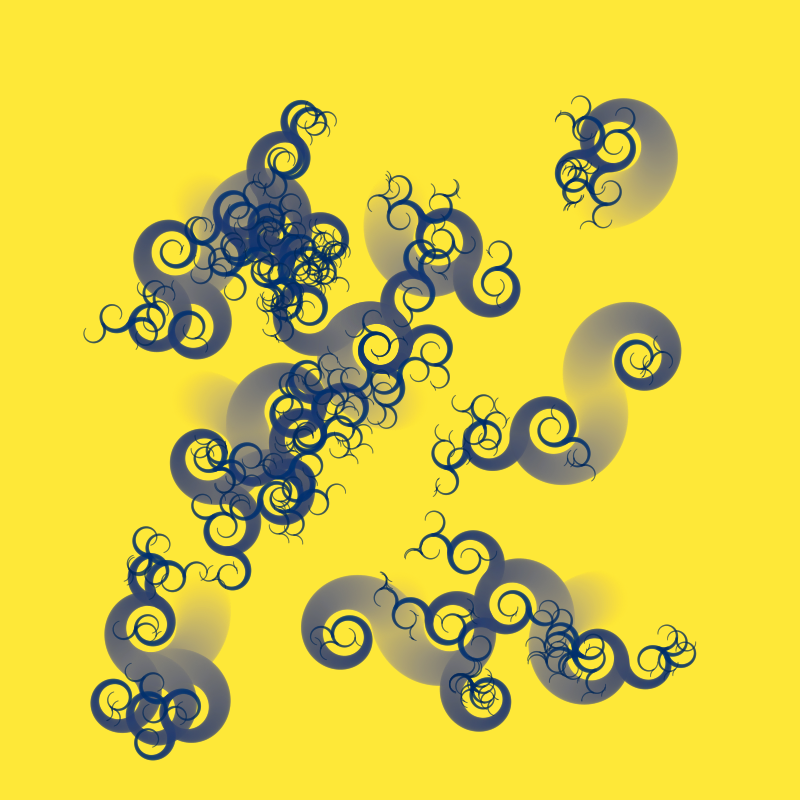
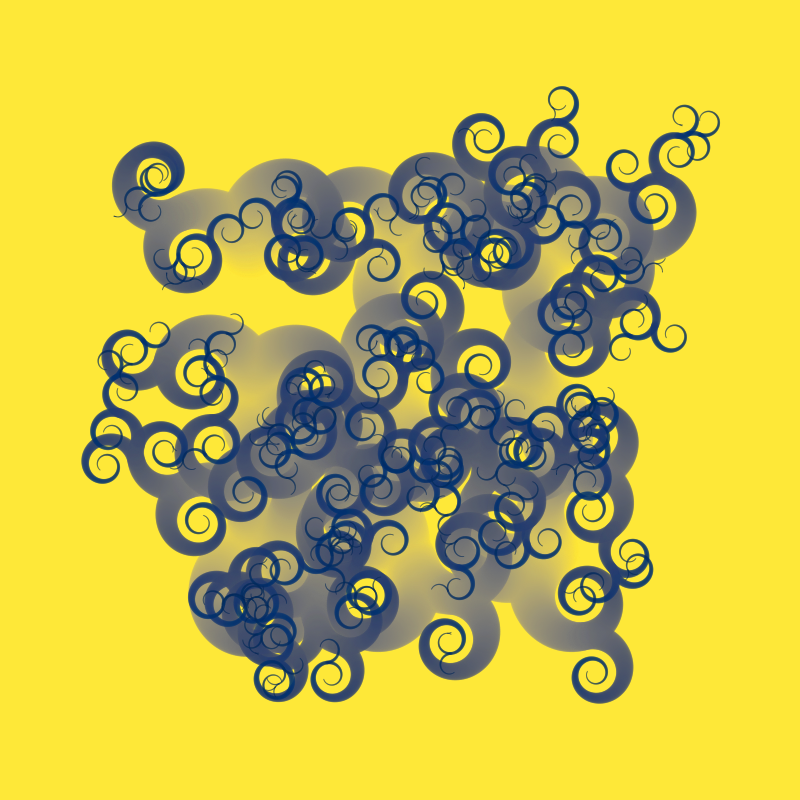
5

diff --git a/2025/sketch_2025_12_05/sketch_2025_12_05.py b/2025/sketch_2025_12_05/sketch_2025_12_05.py
@@ -34,8 +34,8 @@ def key_pressed():
     elif py5.key == 'p':
         py5.save_frame('###.png')
     elif py5.key == 'r':
-        for x, y in product(range(200, py5.width - 199, 200), repeat=2):
-            for _ in range(1):
+        for x, y in product(range(250, py5.width - 249, 150), repeat=2):
+            for _ in range(4):
                 particles.append(Particle(x, y, d=60))
  
 
@@ -45,19 +45,21 @@ class Particle:
         self.pos = py5.Py5Vector(x, y)
         self.vel = v or py5.Py5Vector2D.random() * 2        
         self.d = d or py5.random(20, 50)
-        self.handedness = h or py5.random_choice((-1, 1))
+        self.h = h or py5.random_choice((-1, 1))
          
     def update(self):
-        if py5.random(100) < 1:
-             particles.append(
-                 Particle(self.pos.x, self.pos.y,
-                          d=self.d,
-                          v=-self.vel,#.rotate(py5.HALF_PI),
-                          h=self.handedness
-                          )
-                 )
+        if py5.random(1000) < 5:
+            particles.append(
+                Particle(
+                    self.pos.x, self.pos.y,
+                    d=self.d,
+                    v=self.vel.copy,
+                    h=-self.h
+                )
+            )
         if self.d < 1:
             particles.remove(self)
+            
         self.display()
         self.move()
         self.d = self.d * 0.99
@@ -74,7 +76,7 @@ class Particle:
         self.pos += self.vel
         self.pos.x %= py5.width
         self.pos.y %= py5.height
-        self.vel.rotate(py5.radians(2 * self.handedness))
+        self.vel.rotate(py5.radians(2 * self.h))
         self.vel *= 0.995
         
 py5.run_sketch(block=False)

diff --git a/docs/README.md b/docs/README.md
@@ -28,6 +28,16 @@ If you appreciate what I have been doing, you may also support my artistic work,
 
 ---
 
+### sketch_2025_12_05
+
+![sketch_2025_12_05](https://raw.githubusercontent.com/villares/sketch-a-day/main/2025/sketch_2025_12_05/sketch_2025_12_05.png)
+
+[sketch_2025_12_05](https://github.com/villares/sketch-a-day/tree/main/2025/sketch_2025_12_05) [[py5](https://py5coding.org/)]
+
+
+
+---
+
 ### sketch_2025_12_04
 
 ![sketch_2025_12_04](https://raw.githubusercontent.com/villares/sketch-a-day/main/2025/sketch_2025_12_04/sketch_2025_12_04.png)
